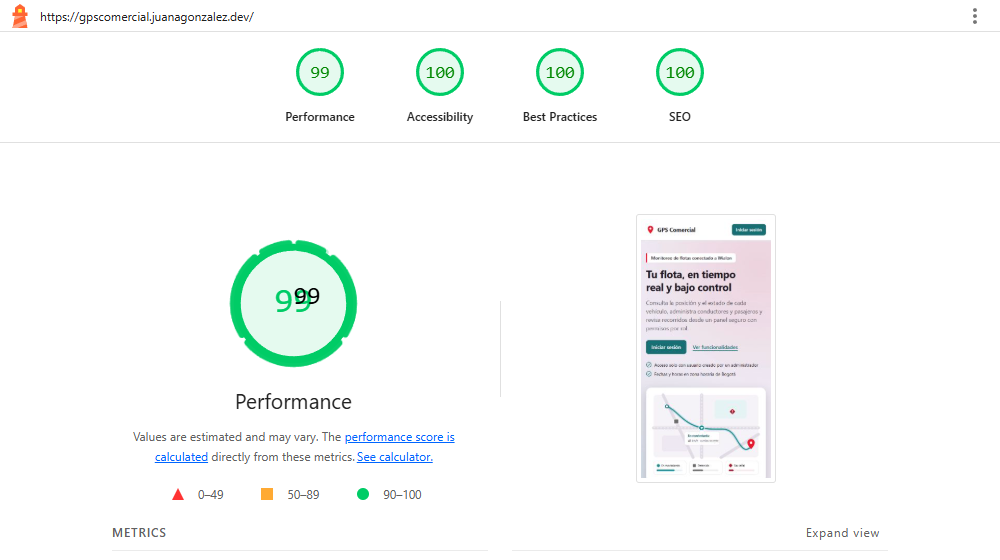
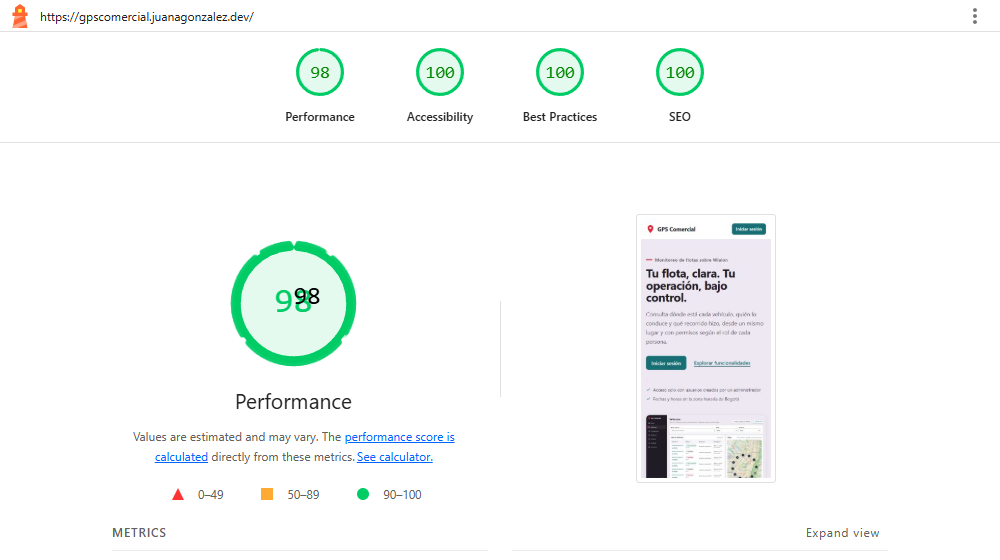
docs: record production Lighthouse after the visual polish

diff --git a/docs/checklist.md b/docs/checklist.md
@@ -91,7 +91,7 @@ Preparar el paquete no marca F0 ni ningún requisito de aplicación como termina
 | UX-04 | Obligatorio | Retroalimentación al usuario en todas las acciones: *skeletons* o indicadores de carga, notificaciones (toasts), confirmaciones en acciones destructivas, mensajes de error útiles. | VERIFICADO | 2026-11-09: skeletons, toasts, confirmación en acciones destructivas, errores útiles. |
 | UX-05 | Obligatorio | Navegación clara y adaptada al rol: el menú y las vistas cambian según los permisos. | VERIFICADO | 2026-11-09: menú y acciones según permisos (e2e Playwright+Chrome visualizador). |
 | UX-06 | Obligatorio | Tablas de datos usables: ordenar, filtrar, paginar, estados vacíos con guía de acción. | VERIFICADO | 2026-11-09: tablas con orden, filtros, paginación y vacío con guía. |
-| UX-07 | Obligatorio | Rendimiento percibido: la landing debe alcanzar en **Lighthouse (móvil)** al menos **85 en Rendimiento y 90 en Accesibilidad y Buenas prácticas**. Incluye una captura en el README. | VERIFICADO | 2026-11-10 producción: Lighthouse móvil sobre https://gpscomercial.juanagonzalez.dev: 99/100/100 (SEO 100), LCP 1,7 s, TBT 20 ms, CLS 0; captura docs/screenshots/lighthouse-produccion-movil.png. |
+| UX-07 | Obligatorio | Rendimiento percibido: la landing debe alcanzar en **Lighthouse (móvil)** al menos **85 en Rendimiento y 90 en Accesibilidad y Buenas prácticas**. Incluye una captura en el README. | VERIFICADO | 2026-11-10 producción, tras el pulido visual: Lighthouse móvil sobre https://gpscomercial.juanagonzalez.dev 98/100/100/100 y 97/100/100/100 (LCP 2,0 s, CLS 0); captura docs/screenshots/lighthouse-produccion-movil.png. |
 | UX-08 | Opcional | **PUEDE** incluir modo oscuro respetando la paleta, animaciones sutiles con `prefers-reduced-motion`, y soporte de teclado avanzado. | PENDIENTE | Opcional: prefers-reduced-motion respetado; sin modo oscuro. |
 | GIT-01 | Obligatorio | Repositorio **público**. Puede ser un monorepo (`/backend`, `/frontend`) o dos repositorios. | VERIFICADO | 2026-11-10 producción: repositorio público con la historia completa (PR #1 y #2 fusionados con merge commit). |
 | GIT-02 | Obligatorio | Historial de commits **incremental y legible**: commits pequeños y atómicos, con mensajes siguiendo **Conventional Commits** (`feat:`, `fix:`, `refactor:`, `test:`, `docs:`, `chore:`). | VERIFICADO | 2026-11-10 producción: commits pequeños Conventional Commits publicados en main. |

diff --git a/README.md b/README.md
@@ -24,12 +24,13 @@ muestra a escala de país.
 |---|---|---|
 | ![Login](docs/screenshots/login.png) | ![Historial](docs/screenshots/historial.png) | ![Landing móvil](docs/screenshots/landing-movil.png) |
 
-**Lighthouse móvil** sobre la URL de producción `https://gpscomercial.juanagonzalez.dev` (2026-11-10, dos ejecuciones con el
-mismo resultado):
+**Lighthouse móvil** sobre la URL de producción `https://gpscomercial.juanagonzalez.dev`, tras el pulido visual
+(2026-11-10 12:42 UTC, dos ejecuciones):
 
-| Rendimiento | Accesibilidad | Buenas prácticas | SEO | LCP | TBT | CLS |
-|---|---|---|---|---|---|---|
-| **99** | **100** | **100** | 100 | 1,7 s | 20 ms | 0 |
+| Ejecución | Rendimiento | Accesibilidad | Buenas prácticas | SEO | LCP | TBT | CLS |
+|---|---|---|---|---|---|---|---|
+| 1 | **98** | **100** | **100** | 100 | 2,0 s | 70 ms | 0 |
+| 2 | **97** | **100** | **100** | 100 | 2,0 s | 130 ms | 0 |
 
 ![Lighthouse producción](docs/screenshots/lighthouse-produccion-movil.png)
 
